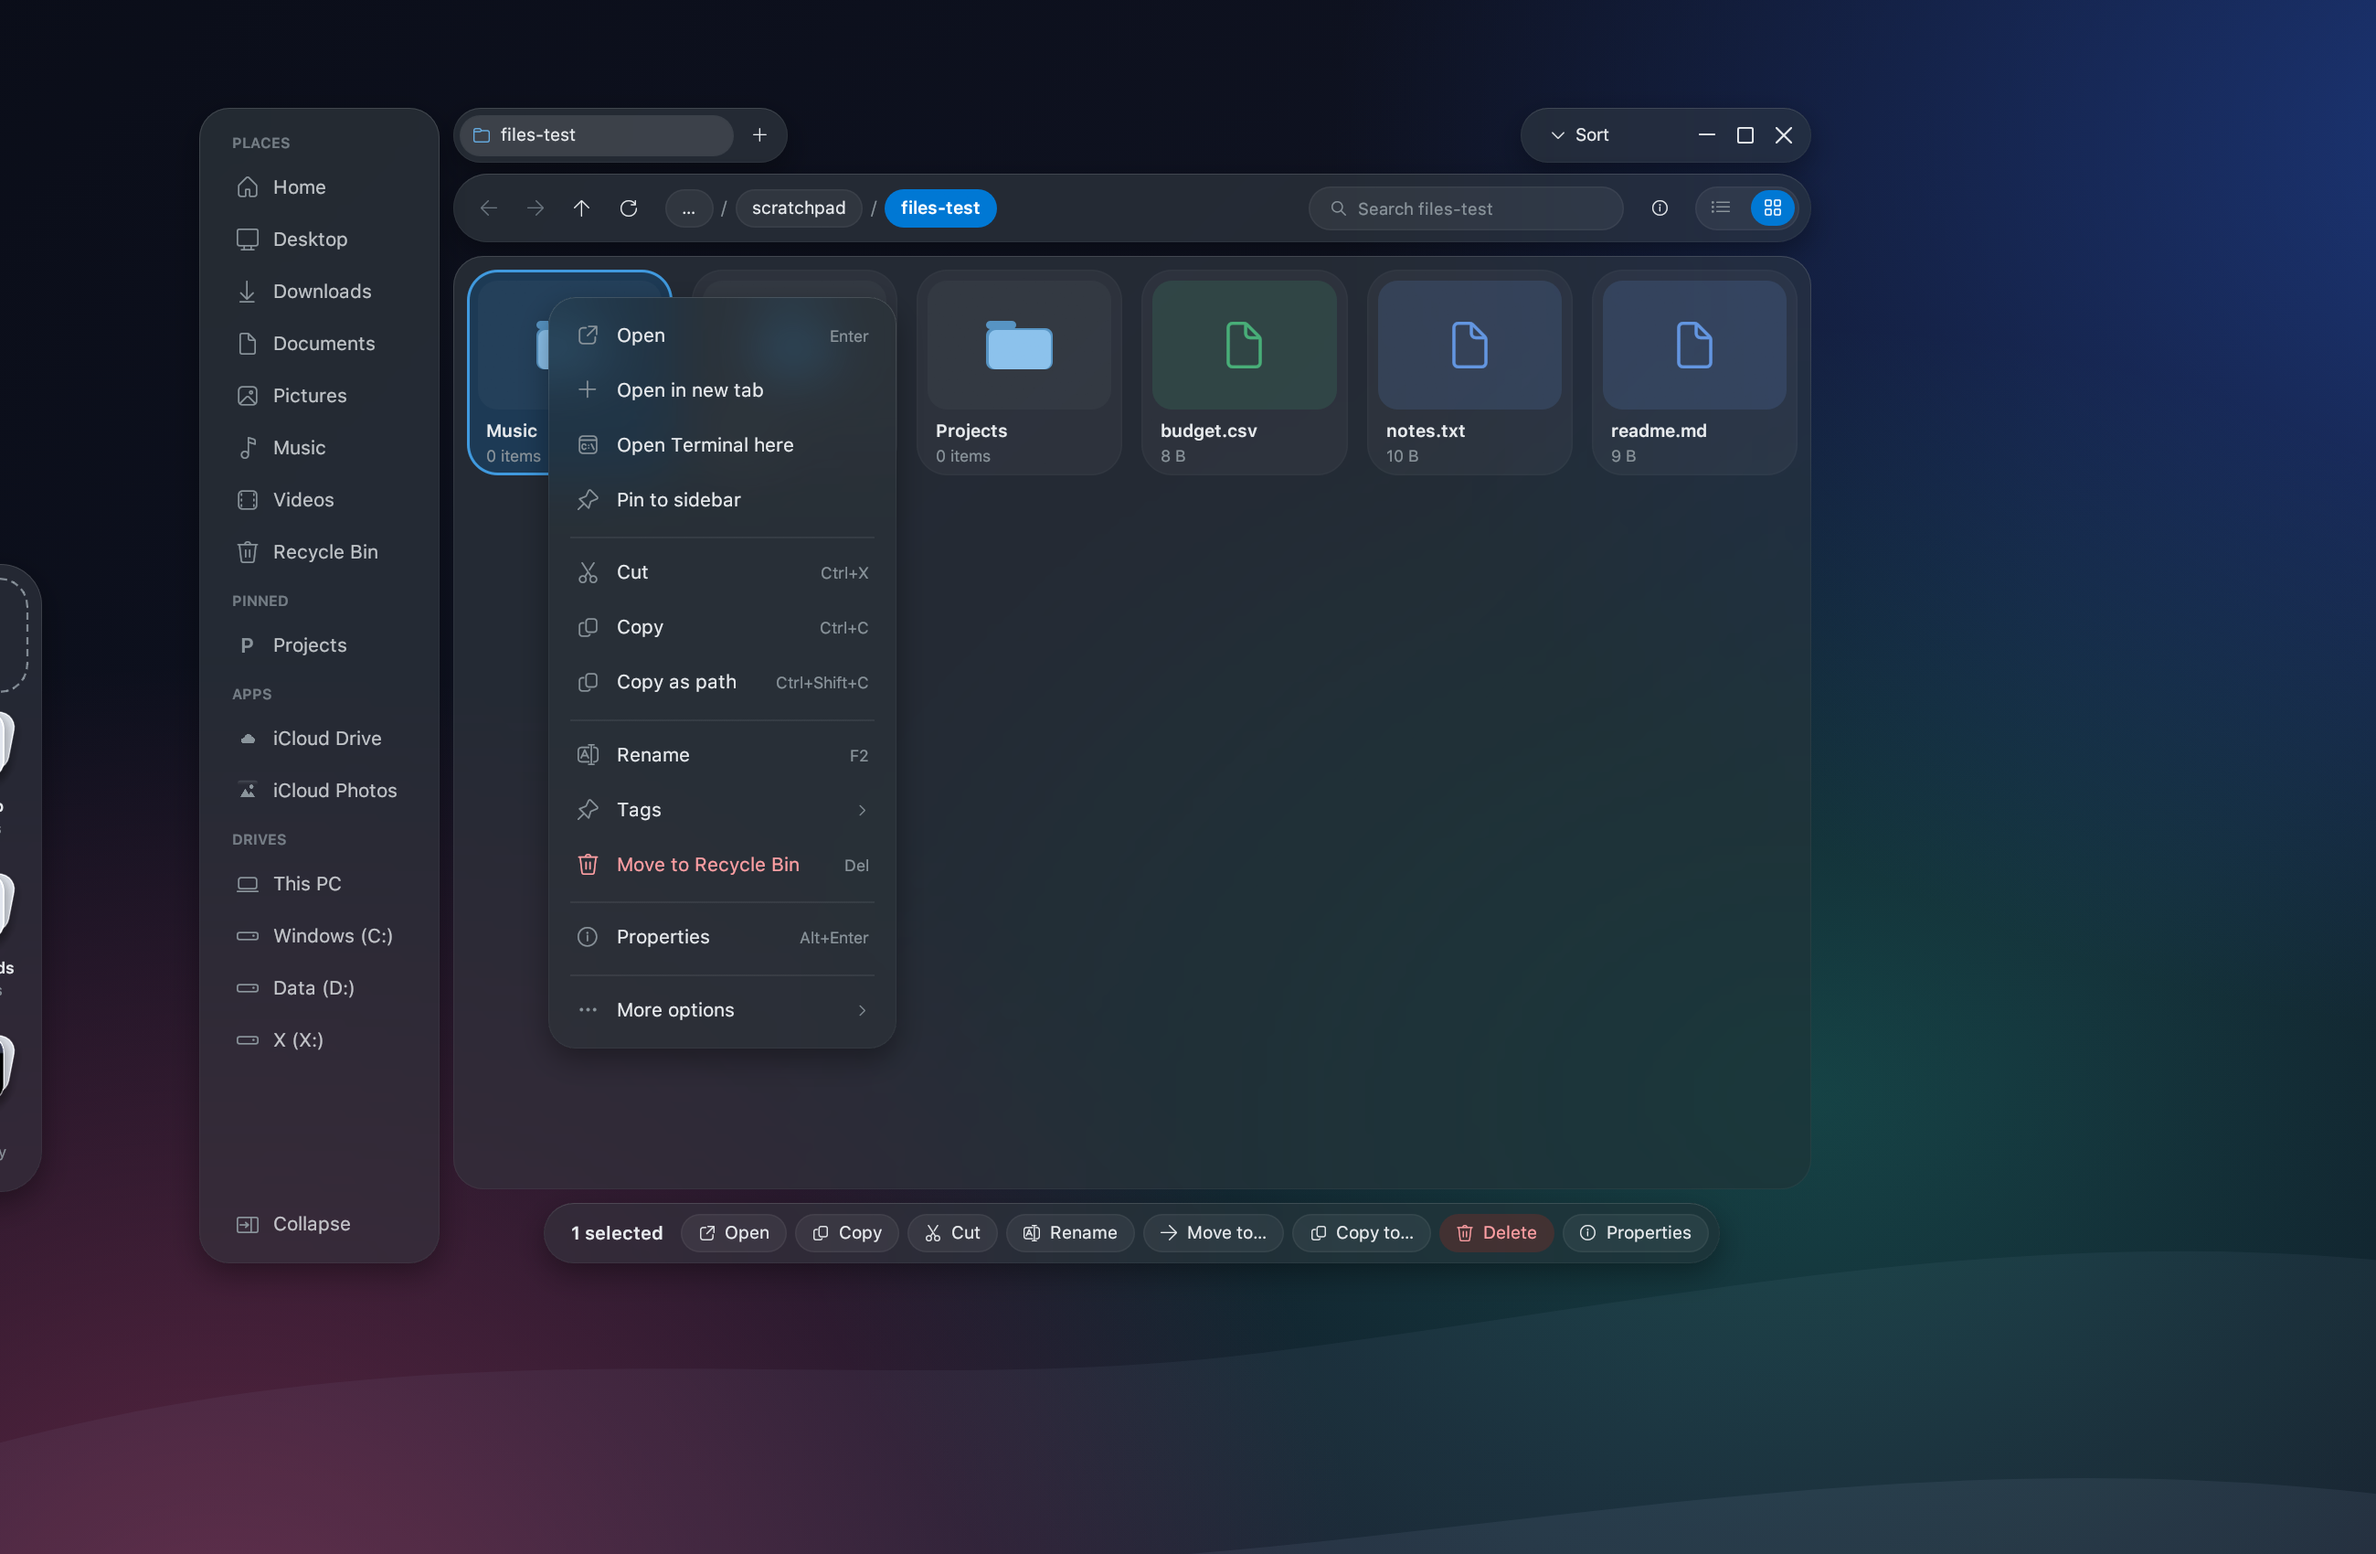
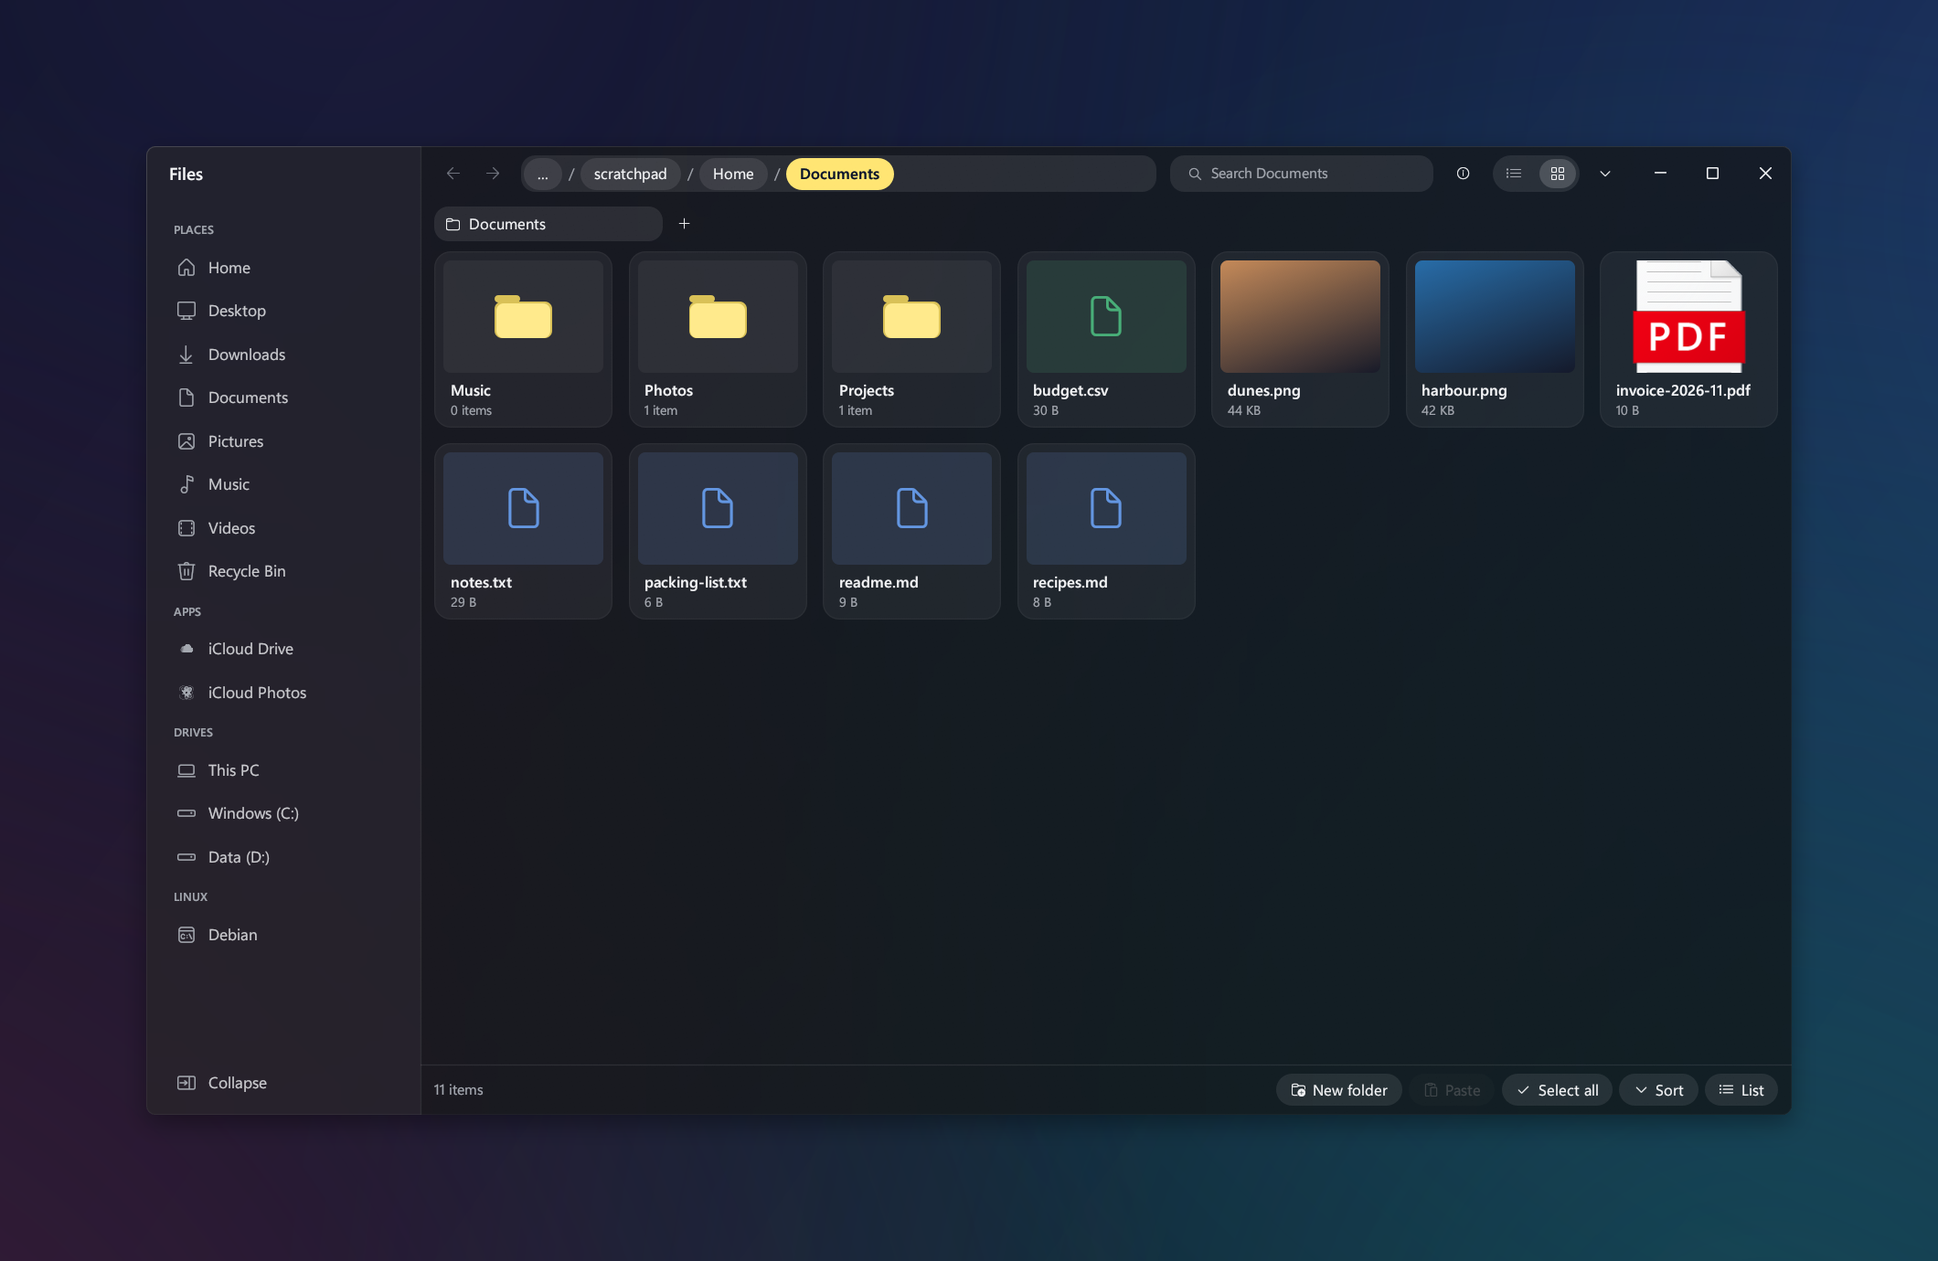
README: screenshots in the Glasshouse look; Task Manager and the control centre
New shots of Files, Terminal and Settings, and first ones of Task Manager and the control
centre. Taken on Windows as the real shell, with test copies (SHELLMAN_INSTANCE,
SHELLMAN_CONFIG_DIR) over a plain gradient and made-up files. The dock, top bar panels and
widgets keep their old shots, which would otherwise show real events, notifications and weather.
The intro names the Glasshouse look; the folder table gains apps/taskview and apps/elevate.

Plan: Blurman left egui for WinUI 3, so its glasshouse-look branch will not be merged; what was
seen on Windows on 20 Nov, and three things found (a stale "Invisible" string in Settings, a
possible line-clearing glitch in Terminal, Win+Shift+S and Print Screen doing nothing without
Explorer).

diff --git a/README.md b/README.md
@@ -1,9 +1,10 @@
 # shellman
 
 I wanted Windows 11 to look and feel the way I want, so I'm replacing the shell. shellman takes
-the place of `explorer.exe`: its own top bar, dock, desktop, launcher, Alt+Tab, file manager,
-terminal, settings and task manager. Everything is drawn as floating islands of blurred glass in
-one accent colour. It's written in Rust.
+the place of `explorer.exe`: its own top bar, dock, desktop, launcher, Alt+Tab, Task View,
+control centre, file manager, terminal, settings and task manager. The look comes from my
+Glasshouse GTK theme: app windows are one sheet of frosted glass with a sidebar and boxed rows,
+the bar, dock and panels float as islands of glass, all in one accent colour. It's written in Rust.
 
 I use it every day as my real shell. It's still a personal project and a lot is unfinished, so
 expect rough edges. What's done, what's not and why things work the way they do is in
@@ -13,15 +14,15 @@ expect rough edges. What's done, what's not and why things work the way they do 
 
 ### Files
 
-Tabs, a sidebar that folds down to icons, tags, and glass context menus.
+Tabs, a sidebar that folds down to icons, thumbnails, tags, and glass context menus.
 
-![Files with an item's context menu](docs/screenshots/files.png)
+![Files in a folder, in grid view](docs/screenshots/files.png)
 
 ### Terminal
 
-Tabs, profiles, find, selection and mouse support, on a bundled ConPTY.
+Tabs, split panes, profiles, find, selection and mouse support, on a bundled ConPTY.
 
-![Terminal with the find bar open](docs/screenshots/terminal.png)
+![Terminal split in two, with the find bar open](docs/screenshots/terminal.png)
 
 ### Dock
 
@@ -43,15 +44,31 @@ notifications under the bell.
 |---|---|
 | ![Calendar panel](docs/screenshots/calendar.png) | ![Notifications panel](docs/screenshots/notifications.png) |
 
+### Control centre
+
+Wi-Fi, Bluetooth, the sound output and microphone, brightness for each monitor, and lock, sleep,
+restart, shut down and sign out, from the top bar's right end.
+
+![Control centre](docs/screenshots/control-centre.png)
+
 ### Desktop widgets
 
 Today (calendar and weather) and Now playing, under the tray.
 
 ![The Today widget under the tray](docs/screenshots/widgets.png)
 
+### Task Manager
+
+Processes, performance graphs, services and startup apps.
+
+![Task Manager, Performance page](docs/screenshots/task-manager.png)
+
 ### Settings
 
-![Settings, Terminal page](docs/screenshots/settings.png)
+Appearance, display, sound, default apps, Windows Update, startup apps, accessibility, privacy,
+and the dock, top bar, launcher and terminal.
+
+![Settings, Appearance page](docs/screenshots/settings.png)
 
 ## Before you try it
 
@@ -159,10 +176,11 @@ GitHub with `--publish`. The signing key is in my password manager, not in the r
 | `apps/session` | The shell process Windows starts at sign-in. Starts and watches over everything else |
 | `apps/bar` | Top bar, tray, dock, notifications, calendar |
 | `apps/desktop`, `apps/shelf` | Wallpaper, the file shelf and the widgets |
-| `apps/launcher`, `apps/switcher` | App launcher and Alt+Tab |
+| `apps/launcher`, `apps/switcher`, `apps/taskview` | App launcher, Alt+Tab, and Task View (Win+Tab) |
 | `apps/files`, `apps/pickhook` | File manager, and the hook that gives other apps its Open and Save dialogs |
 | `apps/terminal` | Terminal |
-| `apps/settings`, `apps/control`, `apps/tasks` | Settings, quick controls, task manager |
+| `apps/settings`, `apps/control`, `apps/tasks` | Settings, the control centre, task manager |
+| `apps/elevate` | The administrator helper: the few things that need admin rights, behind a UAC prompt |
 | `apps/setup`, `apps/installer` | Install, update and uninstall, and the one-file setup |
 | `apps/update`, `crates/update` | Automatic updates: finding, checking and installing a new release |
 | `xtask` | The release command (`cargo xtask release`) |

diff --git a/docs/PLAN.md b/docs/PLAN.md
@@ -2191,18 +2191,34 @@ in the same palette. Window style is Frosted or No transparency (Invisible folde
 - Any translucent light fill egui paints on these see-through windows goes through
   `glass::islands::shows_as`, or it shows as a light grey slab; the theme's colours already are,
   so never wrap them twice.
-- Blurman has the same look in its own copy of the code (it ships alone in the Store, MIT), on
-  its branch `glasshouse-look`, not yet merged there.
+- Blurman got the same look in its own copy of the egui code (it ships alone in the Store, MIT),
+  on its branch `glasshouse-look`. That evening Blurman's `main` dropped egui for a native WinUI 3
+  window (Mica, Mica Alt or Acrylic) and shipped 0.10.0, so that branch is not merged and will
+  not be. Whether Blurman's WinUI window should take the Glasshouse look is open.
 
 Left to do:
-- Look on Windows at Files, Task Manager, Terminal and the installer (only Settings and Blurman
-  have been seen), and at light mode everywhere.
+- Look on Windows at the installer, and at light mode everywhere (Settings, Files, Task Manager,
+  Terminal, the launcher and the control centre were seen in dark on 20 Nov, as the real shell).
+- Settings › Appearance › Glass amount still says "in Invisible and Frosted windows"; Invisible
+  is gone.
+- Terminal: cargo's progress bar left the end of an older, longer line behind ("Finished ... in
+  1m 09sminal(bin)"), so a line rewritten after `\r` may not clear what it does not cover; check
+  against Windows Terminal before calling it a bug.
+- Win+Shift+S and Print Screen open nothing while shellman is the shell (Explorer handled them);
+  Snipping Tool itself opens through its alias (`SnippingTool.exe`); PowerShell's
+  `Start-Process shell:AppsFolder\<id>` gave "Class not registered" (the dock's pins, which open
+  the same kind of path, were not tried).
 - Snap layouts: hovering a window's maximize button should show Windows' layouts. The buttons are
   drawn by shellman, and `window.rs` answers `HTCLIENT` there, so it needs `HTMAXBUTTON` over the
   button's rect and the non-client mouse messages handled.
-- Blurman: test the `glasshouse-look` branch, then merge it; its Settings still offers Invisible,
-  Frosted and No transparency, to match shellman's two.
-- New screenshots for the README (shellman and Blurman still show the old look).
+- README screenshots: Files, Terminal, Settings, Task Manager and the control centre are new (20
+  Nov, test copies with `SHELLMAN_INSTANCE`/`SHELLMAN_CONFIG_DIR` over a plain gradient, made-up
+  files). The dock, top bar panels and widgets still show the old look, since a new shot would
+  show real events, notifications and weather. The launcher has none: it lists the installed apps
+  of whoever takes it. Alt+Tab and Task View have none: they preview every open window on every
+  monitor, so a shot needs a session with only staged windows open (Alt+Tab's test copy shows
+  with `SHELLMAN_TEST_SUMMON=1`, Task View's with `SHELLMAN_TEST_AT`). Check each preview at full
+  size before publishing: a 4K window shrunk into a Task View tile stays readable.
 - Motion: open, close and slide panels on the compositor (Windows.UI.Composition animations)
   instead of egui frames. That needs egui drawn into the glass's own visual tree (a Direct3D 11
   painter into a composition swapchain) rather than an OpenGL window over it; first measure the
